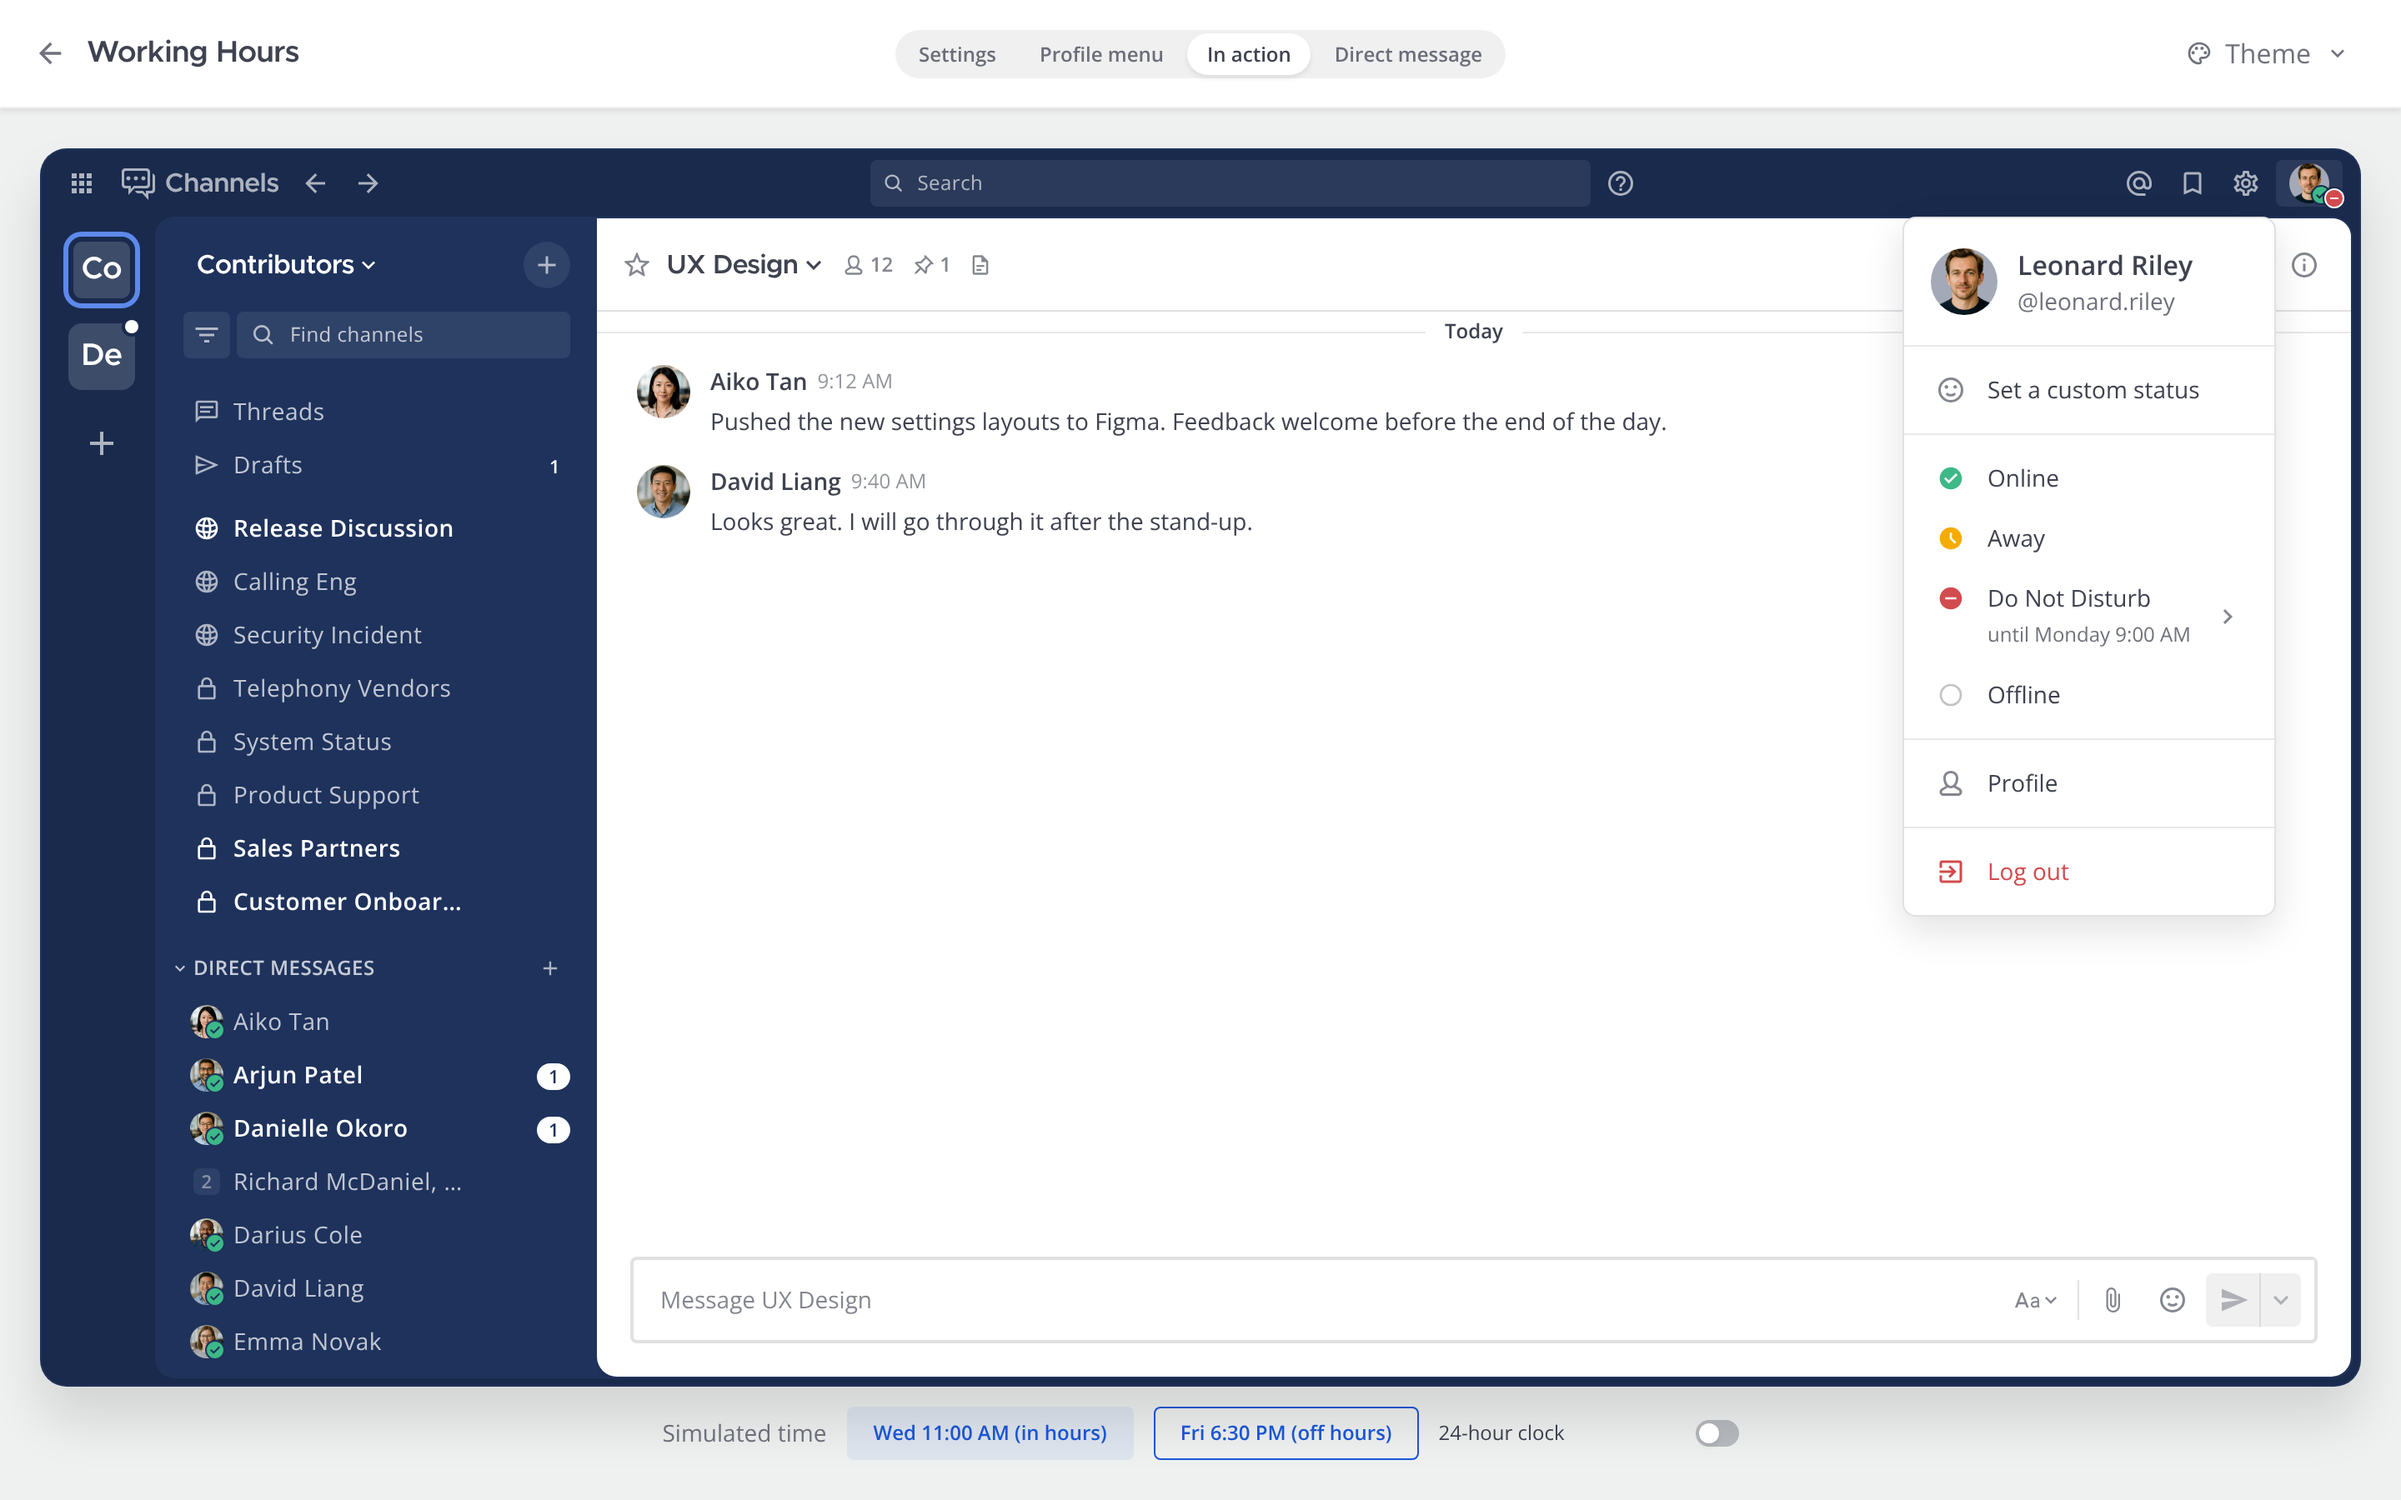
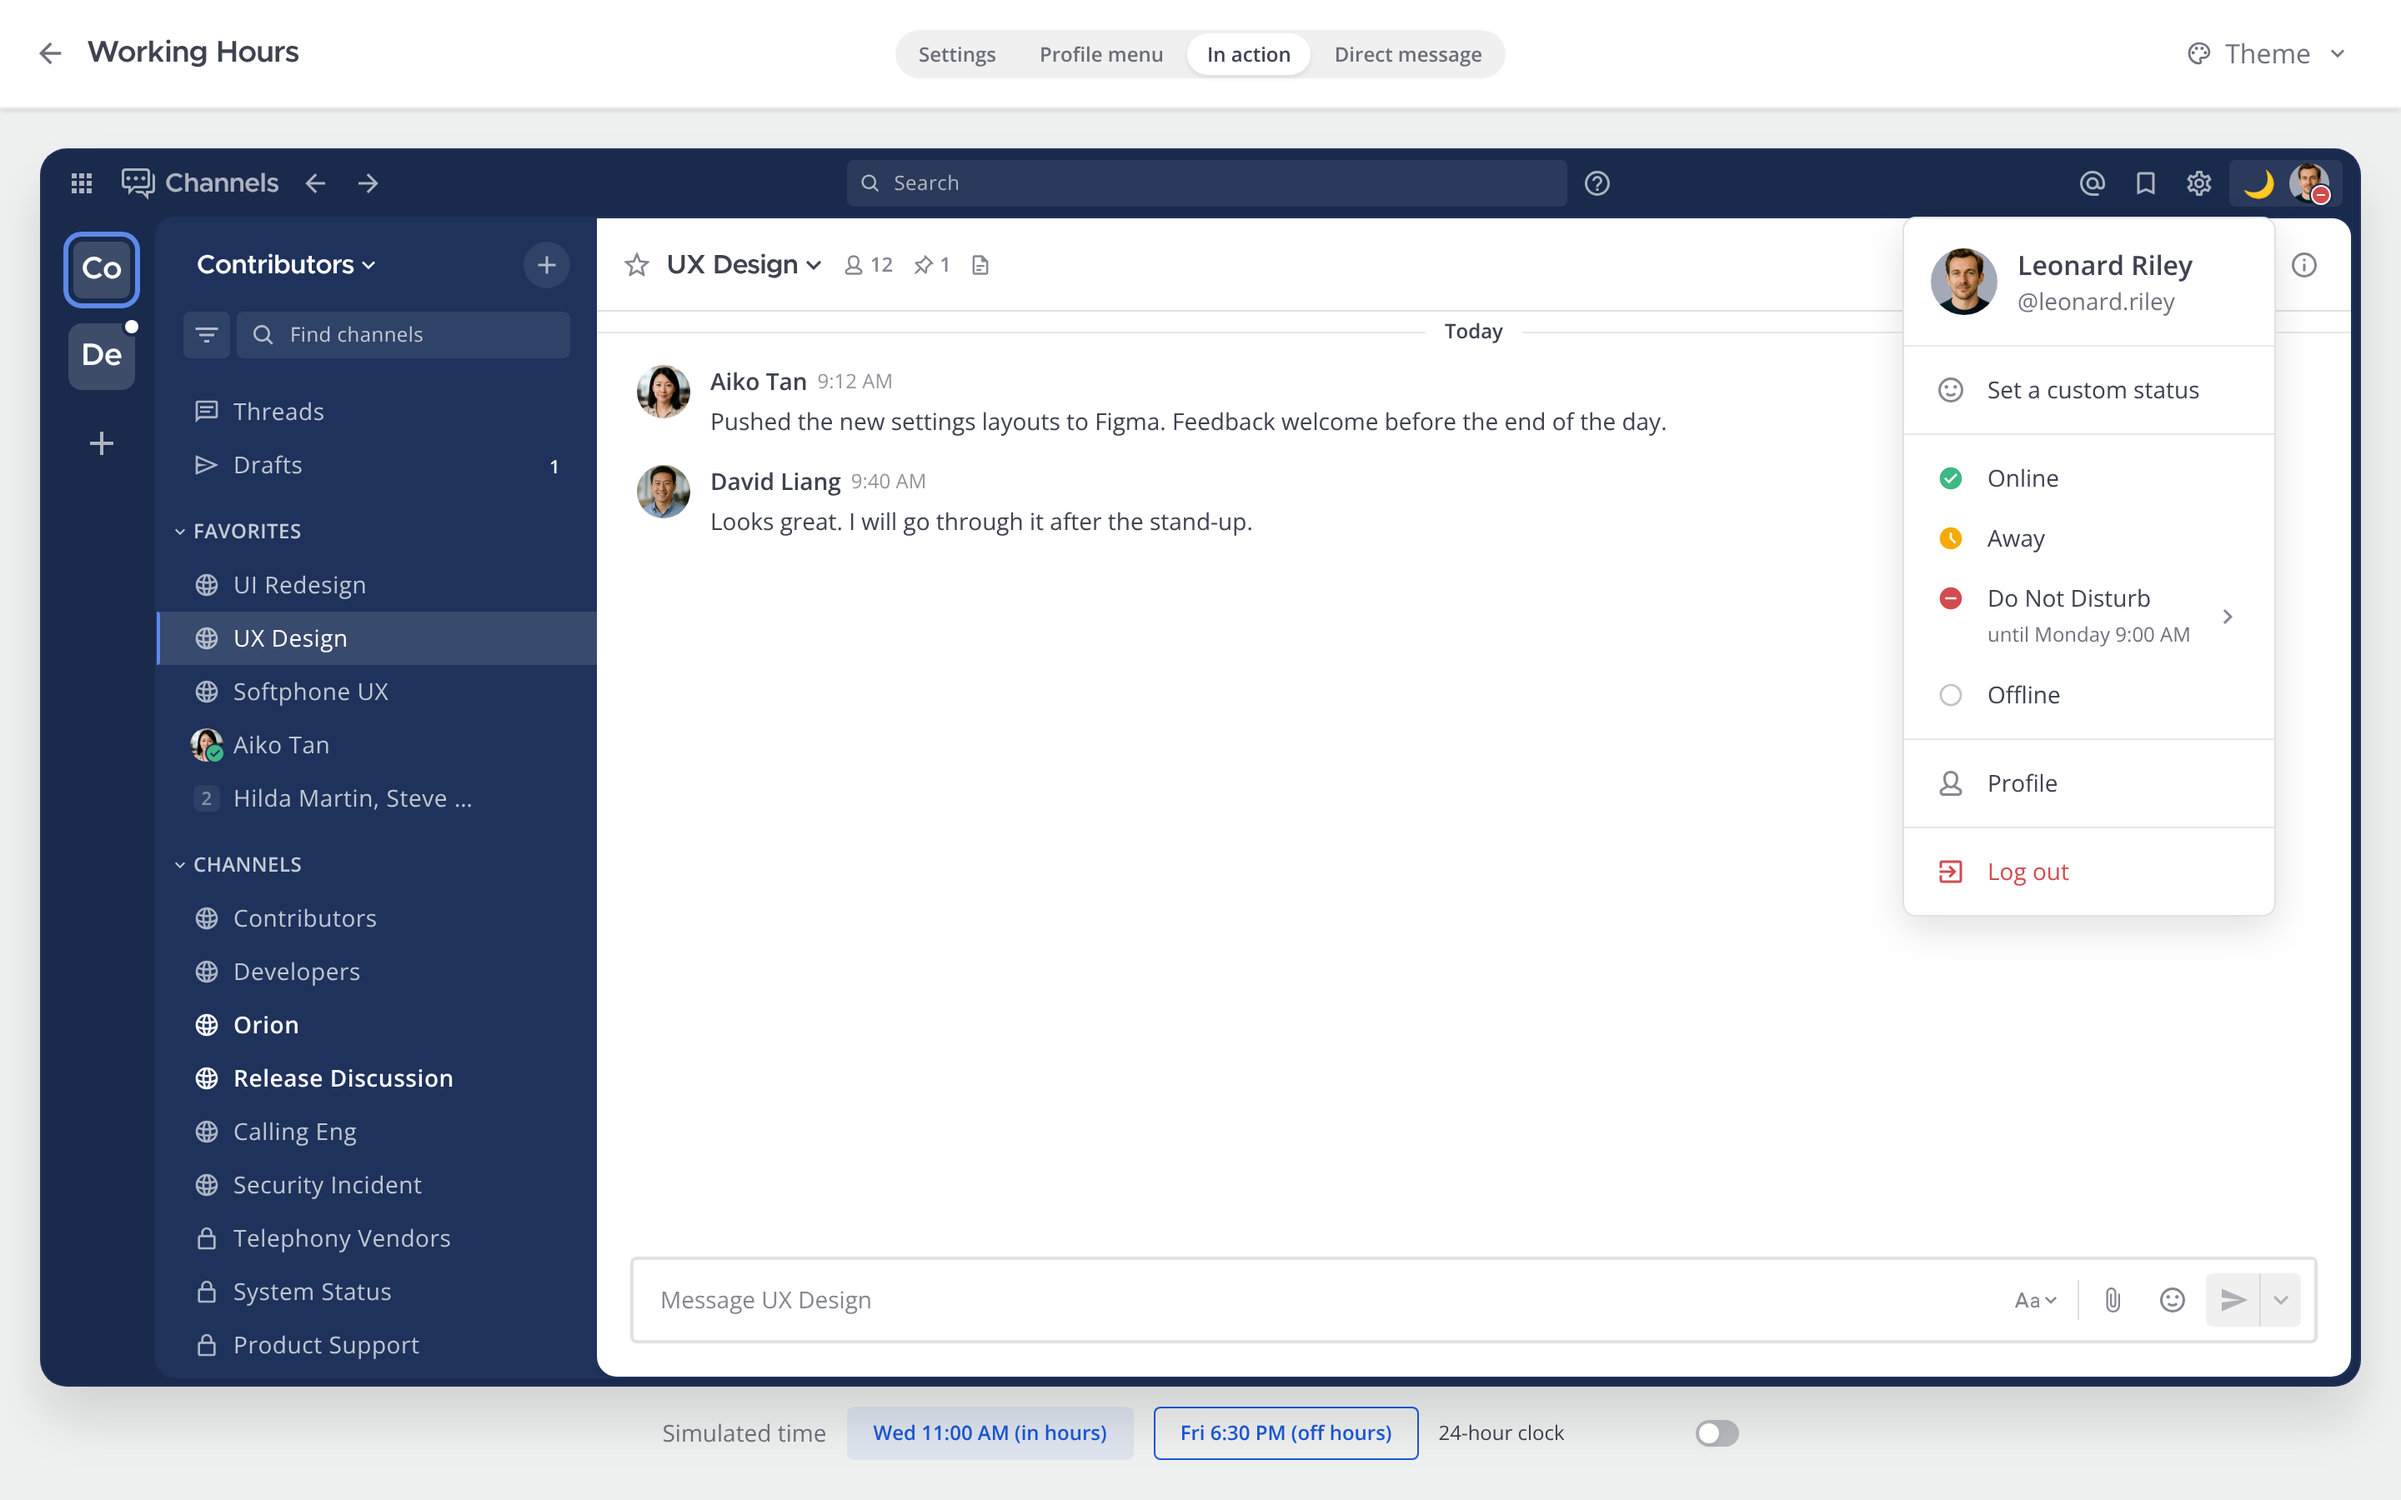
Show the auto-set custom status in the desktop global header
Matches the webapp: the status emoji sits before the avatar in the account
button. GlobalHeader has no slot for it, so it is drawn on the button with a
CSS variable. Also realign the status badge overlay so the header's built-in
online badge no longer peeks out, and seed the in-action scenes with the custom
status option on. The account menu row is not changed (UserAccountMenu has no
custom-status prop).

Claude-Session: https://claude.ai/code/session_01DxJehdH2u6bRBey2KVCRaq

diff --git a/src/pages/prototypes/working-hours/WorkingHours.tsx b/src/pages/prototypes/working-hours/WorkingHours.tsx
@@ -7,6 +7,7 @@ import {
   formatTime,
   INITIAL_SCHEDULE,
   isWithinSchedule,
+  OUTSIDE_HOURS_STATUS,
   TEAMMATE,
   NOW_INSIDE,
   NOW_OUTSIDE,
@@ -20,7 +21,11 @@ import { DesktopScene } from './scenes/DesktopScene';
 import styles from './WorkingHours.module.scss';
 
 /** A schedule that is already on, used to show the "in action" scenes. */
-const ENABLED_SCHEDULE: ScheduleState = { ...INITIAL_SCHEDULE, enabled: true };
+const ENABLED_SCHEDULE: ScheduleState = {
+  ...INITIAL_SCHEDULE,
+  enabled: true,
+  statusOutside: true,
+};
 
 export default function WorkingHours() {
   const { setCenterSlot } = usePrototypeChrome();
@@ -51,6 +56,8 @@ export default function WorkingHours() {
   const scheduleDnd = outsideHours && schedule.dndOutside && !manualOverride;
   const status: EffectiveStatus = scheduleDnd ? 'do-not-disturb' : manualStatus;
   const dndUntil = scheduleDnd ? untilLabel(schedule, now, clock24) : null;
+  const customStatus =
+    outsideHours && schedule.statusOutside ? OUTSIDE_HOURS_STATUS : null;
 
   const setClockOutside = useCallback((next: boolean) => {
     setOutside(next);
@@ -179,6 +186,7 @@ export default function WorkingHours() {
         submenuInitiallyOpen={submenuInitiallyOpen}
         settingsOpen={settingsOpen}
         settingsExpanded={settingsExpanded}
+        customStatus={customStatus}
         view={scene === 'dm' ? 'dm' : 'channel'}
         teammateLocalTime={
           teammateOutside ? TEAMMATE.localOutside : TEAMMATE.localInside

diff --git a/src/pages/prototypes/working-hours/scenes/DesktopScene.tsx b/src/pages/prototypes/working-hours/scenes/DesktopScene.tsx
@@ -1,4 +1,4 @@
-import { useMemo, useState } from 'react';
+import { useMemo, useState, type CSSProperties } from 'react';
 import {
   buildDefaultChannelsSidebarModel,
   ChannelHeader,
@@ -38,6 +38,8 @@ type Props = {
   status: EffectiveStatus;
   dndUntil: string | null;
   /** Channel backdrop, or the DM with a teammate (shows the late-hours notice). */
+  /** Custom status auto-set outside working hours, shown in the header like the webapp. */
+  customStatus: { emoji: string; text: string } | null;
   view: 'channel' | 'dm';
   /** The DM partner's simulated local time, in minutes from midnight. */
   teammateLocalTime: number;
@@ -75,7 +77,21 @@ export function DesktopScene(p: Props) {
 
   return (
     <div className={styles['shell']} ref={setShellEl}>
-      <div className={styles['shell__global-header']}>
+      <div
+        className={[
+          styles['shell__global-header'],
+          p.customStatus && styles['shell__global-header--custom-status'],
+        ]
+          .filter(Boolean)
+          .join(' ')}
+        style={
+          p.customStatus
+            ? ({
+                '--custom-status-emoji': JSON.stringify(p.customStatus.emoji),
+              } as CSSProperties)
+            : undefined
+        }
+      >
         <GlobalHeader
           product="channels"
           userAvatarSrc={avatarLeonard}

diff --git a/src/pages/prototypes/working-hours/WorkingHours.module.scss b/src/pages/prototypes/working-hours/WorkingHours.module.scss
@@ -58,6 +58,15 @@
   &__global-header {
     position: relative;
     flex: 0 0 auto;
+
+    // Webapp parity: the custom status emoji sits just before the avatar in the
+    // account button. GlobalHeader has no slot for it, so draw it on the button.
+    &--custom-status :global([class*='global-header__account'])::before {
+      content: var(--custom-status-emoji);
+      margin-right: var(--spacing-xs);
+      font-size: 16px;
+      line-height: 1;
+    }
   }
 
   // GlobalHeader always paints an "online" badge on the account avatar. Cover it
@@ -66,8 +75,8 @@
   &__status {
     position: absolute;
     top: 50%;
-    right: 8px;
-    margin-top: 2px;
+    right: 16px;
+    margin-top: 0;
     width: 14px;
     height: 14px;
     display: flex;

diff --git a/src/pages/prototypes/working-hours/docs/README.md b/src/pages/prototypes/working-hours/docs/README.md
@@ -19,4 +19,4 @@ Mobile lives in its own prototype: `../../working-hours-mobile/`.
 
 ## Prototype screenshots
 
-Captured from the prototype (not design sources) in `shots/`: `01-settings-collapsed` … `11-dm-no-notice-in-hours` (includes close-ups of the account menu and the DM notice). **background**
+Captured from the prototype (not design sources) in `shots/`: `01-settings-collapsed` … `12-header-custom-status` (includes close-ups of the account menu, the DM notice and the header custom status). **background**
